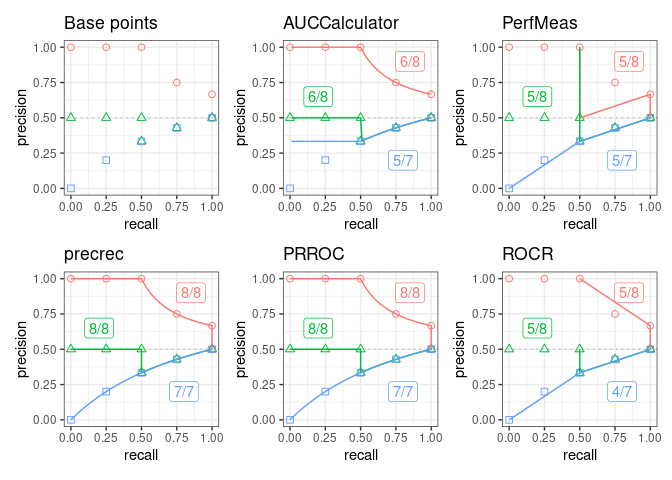
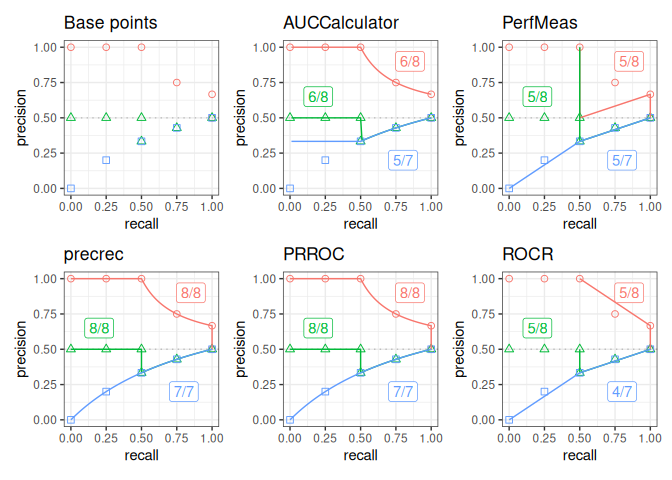
Improve readme and introduction documents
Replace em and en dashes with colons and commas. The dashes were not in
the sources: pandoc's smart extension converted "--" into en dashes when
knitting, so the fix belongs in README.Rmd and the vignette rather than
in the generated README.md.

Name every R chunk so knitr writes stable figure file names. Unnamed
chunks are numbered, so inserting one renumbers the rest and leaves
orphaned image files behind. Delete the two orphans left over from an
earlier renumbering.

Also set html_preview to false to stop the knit from creating an
untracked README.html, fix the "prepartion" section title in _pkgdown.yml
and the "xAUCCalculator" entry in the tool set table.

diff --git a/README.md b/README.md
@@ -12,13 +12,13 @@ evaluating precision-recall curves under various conditions. It contains
 integrated interfaces for the following five tools. It also contains
 predefined test data sets.
 
-| Tool | Language | Link |
-|:---|:---|:---|
-| precrec | R | [Tool web site](https://evalclass.github.io/precrec/), [CRAN](https://cran.r-project.org/package=precrec) |
-| ROCR | R | [Tool web site](https://ipa-tys.github.io/ROCR/), [CRAN](https://cran.r-project.org/package=ROCR) |
-| PRROC | R | [CRAN](https://cran.r-project.org/package=PRROC) |
-| AUCCalculator | Java | [Tool web site](http://mark.goadrich.com/programs/AUC/) |
-| PerfMeas | R | [CRAN](https://cran.r-project.org/package=PerfMeas) |
+| Tool          | Language | Link                                                                                                      |
+|:--------------|:---------|:----------------------------------------------------------------------------------------------------------|
+| precrec       | R        | [Tool web site](https://evalclass.github.io/precrec/), [CRAN](https://cran.r-project.org/package=precrec) |
+| ROCR          | R        | [Tool web site](https://ipa-tys.github.io/ROCR/), [CRAN](https://cran.r-project.org/package=ROCR)         |
+| PRROC         | R        | [CRAN](https://cran.r-project.org/package=PRROC)                                                          |
+| AUCCalculator | Java     | [Tool web site](http://mark.goadrich.com/programs/AUC/)                                                   |
+| PerfMeas      | R        | [CRAN](https://cran.r-project.org/package=PerfMeas)                                                       |
 
 **Disclaimer**: `prcbench` was originally develop to help our
 [precrec](https://CRAN.R-project.org/package=precrec) library in order
@@ -72,22 +72,22 @@ print(res)
 
 | testset | toolset | toolname      |  min |   lq | mean | median |   uq |  max | neval |
 |:--------|:--------|:--------------|-----:|-----:|-----:|-------:|-----:|-----:|------:|
-| b10     | auc5    | AUCCalculator | 1.21 | 1.43 | 1.70 |   1.58 | 1.77 | 2.49 |     5 |
-| b10     | auc5    | PerfMeas      | 0.07 | 0.07 | 0.10 |   0.07 | 0.08 | 0.20 |     5 |
-| b10     | auc5    | precrec       | 4.47 | 4.52 | 4.73 |   4.75 | 4.87 | 5.04 |     5 |
-| b10     | auc5    | PRROC         | 0.17 | 0.18 | 0.23 |   0.18 | 0.19 | 0.44 |     5 |
-| b10     | auc5    | ROCR          | 1.81 | 1.81 | 1.89 |   1.82 | 1.84 | 2.16 |     5 |
+| b10     | auc5    | AUCCalculator | 0.96 | 1.05 | 1.21 |   1.15 | 1.15 | 1.76 |     5 |
+| b10     | auc5    | PerfMeas      | 0.05 | 0.06 | 0.08 |   0.06 | 0.07 | 0.16 |     5 |
+| b10     | auc5    | precrec       | 3.40 | 3.43 | 3.54 |   3.53 | 3.56 | 3.78 |     5 |
+| b10     | auc5    | PRROC         | 0.13 | 0.14 | 0.16 |   0.14 | 0.15 | 0.23 |     5 |
+| b10     | auc5    | ROCR          | 1.66 | 1.70 | 1.75 |   1.71 | 1.77 | 1.91 |     5 |
 
 ## Documentation
 
 - [Introduction to
-  prcbench](https://evalclass.github.io/prcbench/articles/introduction.html)
-  – a package vignette that contains the descriptions of the functions
+  prcbench](https://evalclass.github.io/prcbench/articles/introduction.html):
+  a package vignette that contains the descriptions of the functions
   with several useful examples. View the vignette with
   `vignette("introduction", package = "prcbench")` in R.
 
-- [Help pages](https://evalclass.github.io/prcbench/reference/) – all
-  the functions including the S3 generics have their own help pages with
+- [Help pages](https://evalclass.github.io/prcbench/reference/): all the
+  functions including the S3 generics have their own help pages with
   plenty of examples. View the main help page with
   `help(package = "prcbench")` in R.
 
@@ -168,13 +168,13 @@ doi:
 ## External links
 
 - [Classifier evaluation with imbalanced
-  datasets](https://classeval.wordpress.com/) – our web site that
+  datasets](https://classeval.wordpress.com/): our web site that
   contains several pages with useful tips for performance evaluation on
   binary classifiers.
 
 - [The Precision-Recall Plot Is More Informative than the ROC Plot When
   Evaluating Binary Classifiers on Imbalanced
-  Datasets](https://journals.plos.org/plosone/article?id=10.1371/journal.pone.0118432)
-  – our paper that summarized potential pitfalls of ROC plots with
+  Datasets](https://journals.plos.org/plosone/article?id=10.1371/journal.pone.0118432):
+  our paper that summarized potential pitfalls of ROC plots with
   imbalanced datasets and advantages of using precision-recall plots
   instead.
